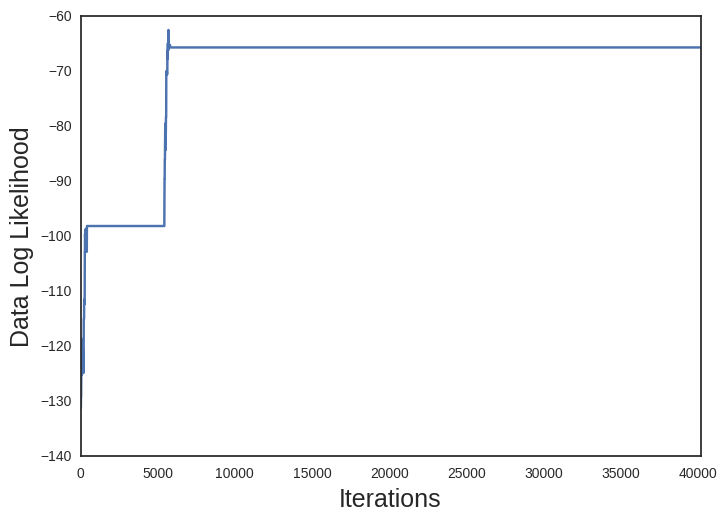
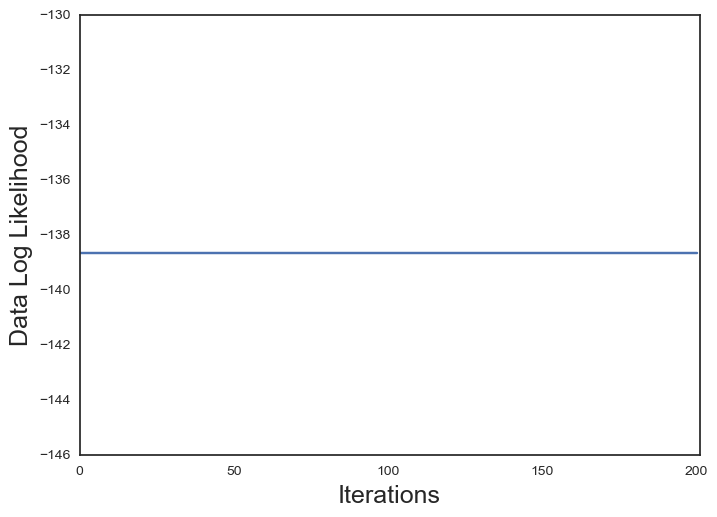
fixed caching

diff --git a/trees/tree.py b/trees/tree.py
@@ -35,7 +35,7 @@ class Tree(object):
     def add_constraint(self, constraint, X):
         constraints = set(self.constraints)
         constraints.add(constraint)
-        self.constraints = frozenset(self.constraints)
+        self.constraints = frozenset(constraints)
         a, b, c = constraint
         an, bn, cn = map(lambda p: self.get_node(self.point_index(p)), (a, b, c))
         subtree_root = self.mrca(an, self.mrca(bn, cn))
@@ -240,14 +240,14 @@ class TreeNode(object):
     def prune_constraints(self, constraints, points, idx):
         choice_points = self.children[idx].points()
         other_points = self.points() - choice_points
-        new_constraints = set()
+        new_constraints = set(constraints)
         for constraint in constraints:
             a, b, c = constraint
-            if a in points and b in choice_points and c in other_points:
+            if not (a in points and b in choice_points and c in other_points):
                 continue
-            if b in points and a in choice_points and c in other_points:
+            if not (b in points and a in choice_points and c in other_points):
                 continue
-            new_constraints.add(constraint)
+            new_constraints.remove(constraint)
 
         return frozenset(new_constraints)
 

diff --git a/experiments/benchmark/run_full_tree.py b/experiments/benchmark/run_full_tree.py
@@ -28,7 +28,7 @@ random.shuffle(master_constraints)
 
 train_percentage = 0.01
 
-training_size = int(0.01 * len(master_constraints))
+training_size = int(0.2 * len(master_constraints))
 
 train_constraints, test_constraints = master_constraints[:training_size], master_constraints[training_size:]
 
@@ -42,13 +42,13 @@ model = DirichletDiffusionTree(df=df, likelihood_model=lm, constraints=train_con
 sampler = MetropolisHastingsSampler(model, X)
 sampler.initialize_assignments()
 
-n_iters = 10000
+n_iters = 1000
 
 scores = []
 for i in tqdm(xrange(n_iters)):
     sampler.sample()
-    scores.append(float(sampler.tree.score_constraints(test_constraints))
-                        / len(test_constraints))
+    #scores.append(float(sampler.tree.score_constraints(test_constraints))
+                        #/ len(test_constraints))
 
 fontsize = 18
 plt.figure()

diff --git a/experiments/benchmark/create_online_graph.py b/experiments/benchmark/create_online_graph.py
@@ -37,9 +37,9 @@ model = DirichletDiffusionTree(df=df, likelihood_model=lm, constraints=[])
 sampler = MetropolisHastingsSampler(model, X)
 sampler.initialize_assignments()
 
-constraint_add = 200
+constraint_add = 1
 constraint_index = 0
-n_iters = 40000
+n_iters = 200
 
 likelihoods = []
 scores = []
